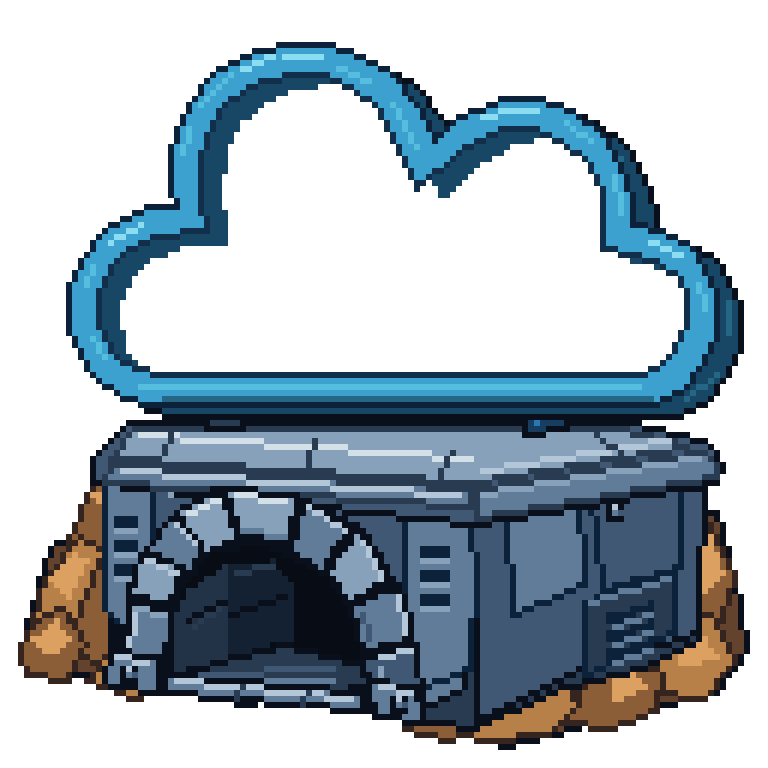
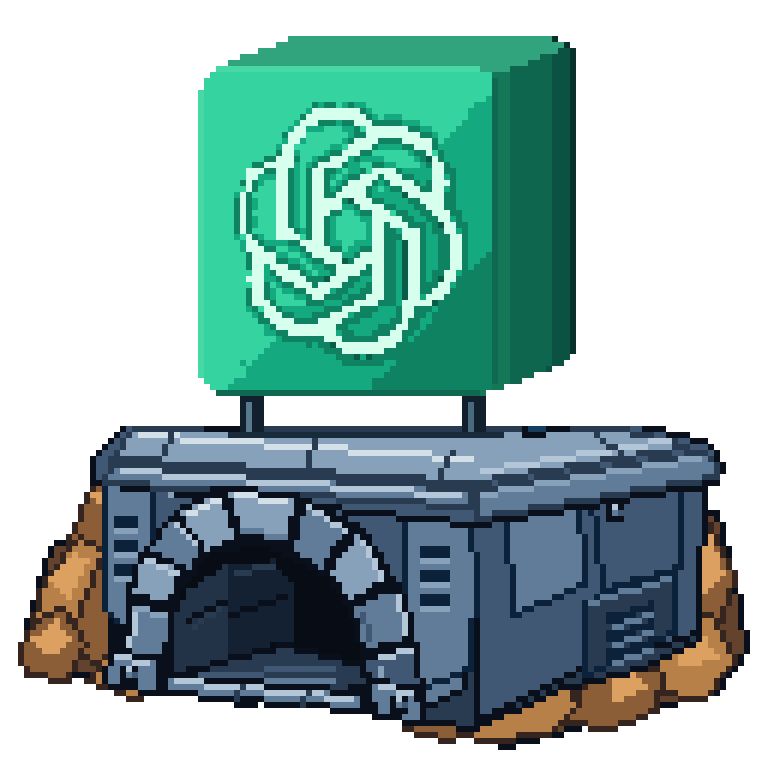
Base Structure Asset Update
Base Structure Image Update

diff --git a/src/game/PhaserBattleRenderer.ts b/src/game/PhaserBattleRenderer.ts
@@ -14,9 +14,12 @@ export class PhaserBattleRenderer {
   private readonly visibleLabels = new Set<string>();
   private readonly actors = new Map<number, { image: Phaser.GameObjects.Image; scale: number; lastX: number; dyingAt?: number }>();
   private readonly scenery: Phaser.GameObjects.GameObject[] = [];
+  private enemyBaseImage?: Phaser.GameObjects.Image;
+  private humanBaseImage?: Phaser.GameObjects.Image;
   private readonly living = new Set<number>();
   constructor(private readonly scene: Phaser.Scene, theme?: 'early' | 'mid' | 'boss', stageId?: string) {
     scene.cameras.main.setBackgroundColor('#233342');
+    const useHumanBaseImage = scene.textures.exists('human-base');
     const enemyBaseKey = stageId === '1-5' ? 'enemy-base-3' : 'enemy-base';
     const useEnemyBaseImage = ['1-1', '1-2', '1-3', '1-4', '1-5'].includes(stageId ?? '') && scene.textures.exists(enemyBaseKey);
     const key = backgroundArt(theme);
@@ -26,23 +29,32 @@ export class PhaserBattleRenderer {
       bg.setScale(Math.min(640 / bg.width, 280 / bg.height));
       this.scenery.push(bg);
       const bases = scene.add.graphics().setDepth(1);
-      bases.fillStyle(0xd0a86b).fillRect(25, 167, 57, 63);
-      bases.fillStyle(0x77614f).fillRect(20, 159, 67, 9);
-      bases.fillStyle(0x453c40).fillRect(46, 197, 18, 33);
+      if (!useHumanBaseImage) {
+        bases.fillStyle(0xd0a86b).fillRect(25, 167, 57, 63);
+        bases.fillStyle(0x77614f).fillRect(20, 159, 67, 9);
+        bases.fillStyle(0x453c40).fillRect(46, 197, 18, 33);
+      }
       if (!useEnemyBaseImage) {
         bases.fillStyle(0x131e2b).fillRect(552, 130, 65, 100);
         bases.fillStyle(0x547386).fillRect(548, 122, 73, 8);
         for (let y = 142; y < 215; y += 17) bases.fillStyle(0x75d7db).fillRect(562, y, 45, 3);
       }
       this.scenery.push(bases);
-      if (scene.textures.exists('seoultech-symbol')) {
+      if (!useHumanBaseImage && scene.textures.exists('seoultech-symbol')) {
         const logo = scene.add.image(54, 182, 'seoultech-symbol').setDepth(2);
         logo.setScale(Math.min(30 / logo.width, 28 / logo.height)); this.scenery.push(logo);
       }
-    } else drawPlaceholder(scene, true, !useEnemyBaseImage);
+    } else drawPlaceholder(scene, true, !useEnemyBaseImage, !useHumanBaseImage);
+    if (useHumanBaseImage) {
+      const base = scene.add.image(FIELD.humanBaseX, FIELD.groundY, 'human-base').setOrigin(.5, 1).setDepth(1);
+      base.setScale(Math.min(104 / base.width, 112 / base.height));
+      this.humanBaseImage = base;
+      this.scenery.push(base);
+    }
     if (useEnemyBaseImage) {
       const base = scene.add.image(FIELD.aiBaseX, FIELD.groundY, enemyBaseKey).setOrigin(.5, 1).setDepth(1);
       base.setScale(Math.min(112 / base.width, 112 / base.height));
+      this.enemyBaseImage = base;
       this.scenery.push(base);
     }
     this.graphics = scene.add.graphics().setDepth(10);
@@ -52,6 +64,21 @@ export class PhaserBattleRenderer {
   setPreview(skill: SkillKind | null): void { this.previewSkill = skill; }
 
   render(snapshot: BattleSnapshot): void {
+    if (this.humanBaseImage) {
+      const key = snapshot.status === 'lost' ? 'human-base-destroyed' : 'human-base';
+      if (this.humanBaseImage.texture.key !== key && this.scene.textures.exists(key)) {
+        this.humanBaseImage.setTexture(key);
+        this.humanBaseImage.setScale(Math.min(104 / this.humanBaseImage.width, 112 / this.humanBaseImage.height));
+      }
+    }
+    if (this.enemyBaseImage) {
+      const normalKey = snapshot.stageId === '1-5' ? 'enemy-base-3' : 'enemy-base';
+      const key = snapshot.status === 'won' ? `${normalKey}-destroyed` : normalKey;
+      if (this.enemyBaseImage.texture.key !== key && this.scene.textures.exists(key)) {
+        this.enemyBaseImage.setTexture(key);
+        this.enemyBaseImage.setScale(Math.min(112 / this.enemyBaseImage.width, 112 / this.enemyBaseImage.height));
+      }
+    }
     const g = this.graphics;
     g.clear();
     this.groundGraphics.clear();

diff --git a/src/scenes/drawPlaceholder.ts b/src/scenes/drawPlaceholder.ts
@@ -1,7 +1,7 @@
 import type Phaser from 'phaser';
 
 /** Geometry is temporary; art can replace it without changing game state. */
-export function drawPlaceholder(scene: Phaser.Scene, battle: boolean, drawEnemyBase = true): void {
+export function drawPlaceholder(scene: Phaser.Scene, battle: boolean, drawEnemyBase = true, drawHumanBase = true): void {
   scene.cameras.main.setBackgroundColor(battle ? '#233342' : '#314452');
   const graphics = scene.add.graphics();
   graphics.fillStyle(0x52626b).fillRect(0, 154, 640, 85);
@@ -12,15 +12,17 @@ export function drawPlaceholder(scene: Phaser.Scene, battle: boolean, drawEnemyB
   graphics.fillStyle(0x151c27).fillRect(0, 229, 640, 51);
   graphics.fillStyle(0x74827b).fillRect(0, 229, 640, 4);
   for (let x = 0; x < 640; x += 28) graphics.fillStyle(0x3e474b).fillRect(x, 254, 15, 2);
-  graphics.fillStyle(0xe5bb78).fillRect(25, 167, 57, 63);
-  graphics.fillStyle(0x77614f).fillRect(20, 159, 67, 9);
-  graphics.fillStyle(0x453c40).fillRect(46, 197, 18, 33);
+  if (drawHumanBase) {
+    graphics.fillStyle(0xe5bb78).fillRect(25, 167, 57, 63);
+    graphics.fillStyle(0x77614f).fillRect(20, 159, 67, 9);
+    graphics.fillStyle(0x453c40).fillRect(46, 197, 18, 33);
+  }
   if (drawEnemyBase) {
     graphics.fillStyle(0x131e2b).fillRect(552, 130, 65, 100);
     graphics.fillStyle(0x547386).fillRect(548, 122, 73, 8);
     for (let y = 142; y < 215; y += 17) graphics.fillStyle(0x75d7db).fillRect(562, y, 45, 3);
   }
-  if (scene.textures.exists('seoultech-symbol')) scene.add.image(54, 182, 'seoultech-symbol').setDisplaySize(30, 28);
+  if (drawHumanBase && scene.textures.exists('seoultech-symbol')) scene.add.image(54, 182, 'seoultech-symbol').setDisplaySize(30, 28);
   if (battle) return;
   graphics.fillStyle(0xf5cba2).fillRect(110, 190, 12, 12);
   graphics.fillStyle(0xdf886c).fillRect(108, 202, 16, 16);

diff --git a/src/scenes/BootScene.ts b/src/scenes/BootScene.ts
@@ -21,8 +21,12 @@ export class BootScene extends Phaser.Scene {
     this.load.on('loaderror', failed);
     this.scope.defer(() => { this.load.off('progress', progress); this.load.off('loaderror', failed); });
     for (const key of GENERATED_ASSETS) if (!this.textures.exists(key)) this.load.image(key, assetUrl(key));
+    if (!this.textures.exists('human-base')) this.load.image('human-base', `${import.meta.env.BASE_URL}assets/bases/human-base.png`);
+    if (!this.textures.exists('human-base-destroyed')) this.load.image('human-base-destroyed', `${import.meta.env.BASE_URL}assets/bases/human-base-destroyed.png`);
     if (!this.textures.exists('enemy-base')) this.load.image('enemy-base', `${import.meta.env.BASE_URL}assets/bases/enemy-base.png`);
+    if (!this.textures.exists('enemy-base-destroyed')) this.load.image('enemy-base-destroyed', `${import.meta.env.BASE_URL}assets/bases/enemy-base-destroyed.png`);
     if (!this.textures.exists('enemy-base-3')) this.load.image('enemy-base-3', `${import.meta.env.BASE_URL}assets/bases/enemy-base-3.png`);
+    if (!this.textures.exists('enemy-base-3-destroyed')) this.load.image('enemy-base-3-destroyed', `${import.meta.env.BASE_URL}assets/bases/enemy-base-3-destroyed.png`);
     if (!this.textures.exists('seoultech-symbol')) this.load.image('seoultech-symbol', `${import.meta.env.BASE_URL}assets/bases/seoultech-symbol.gif`);
   }
 
